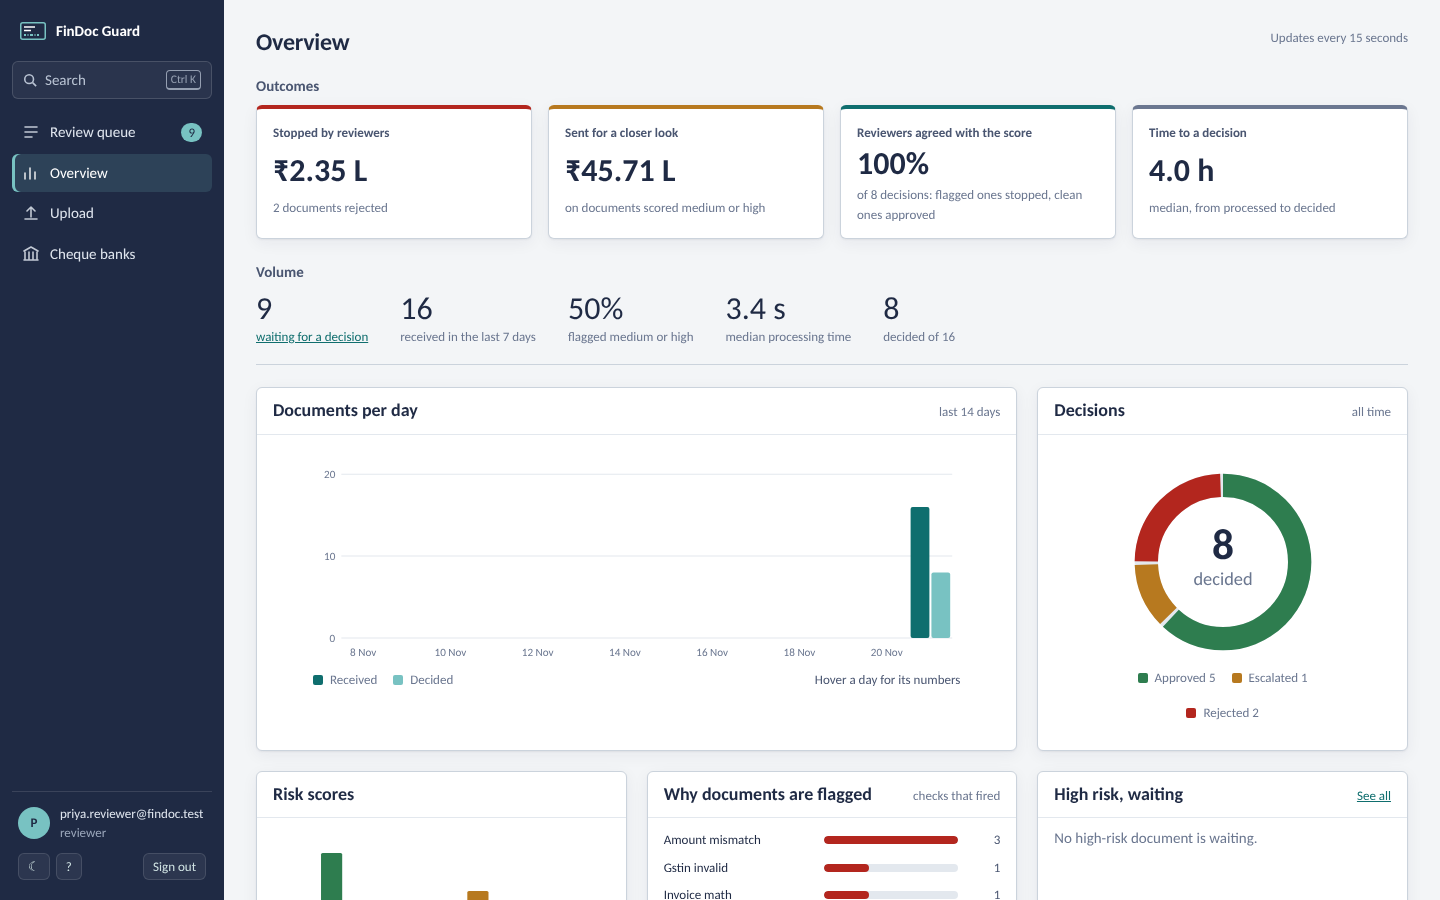
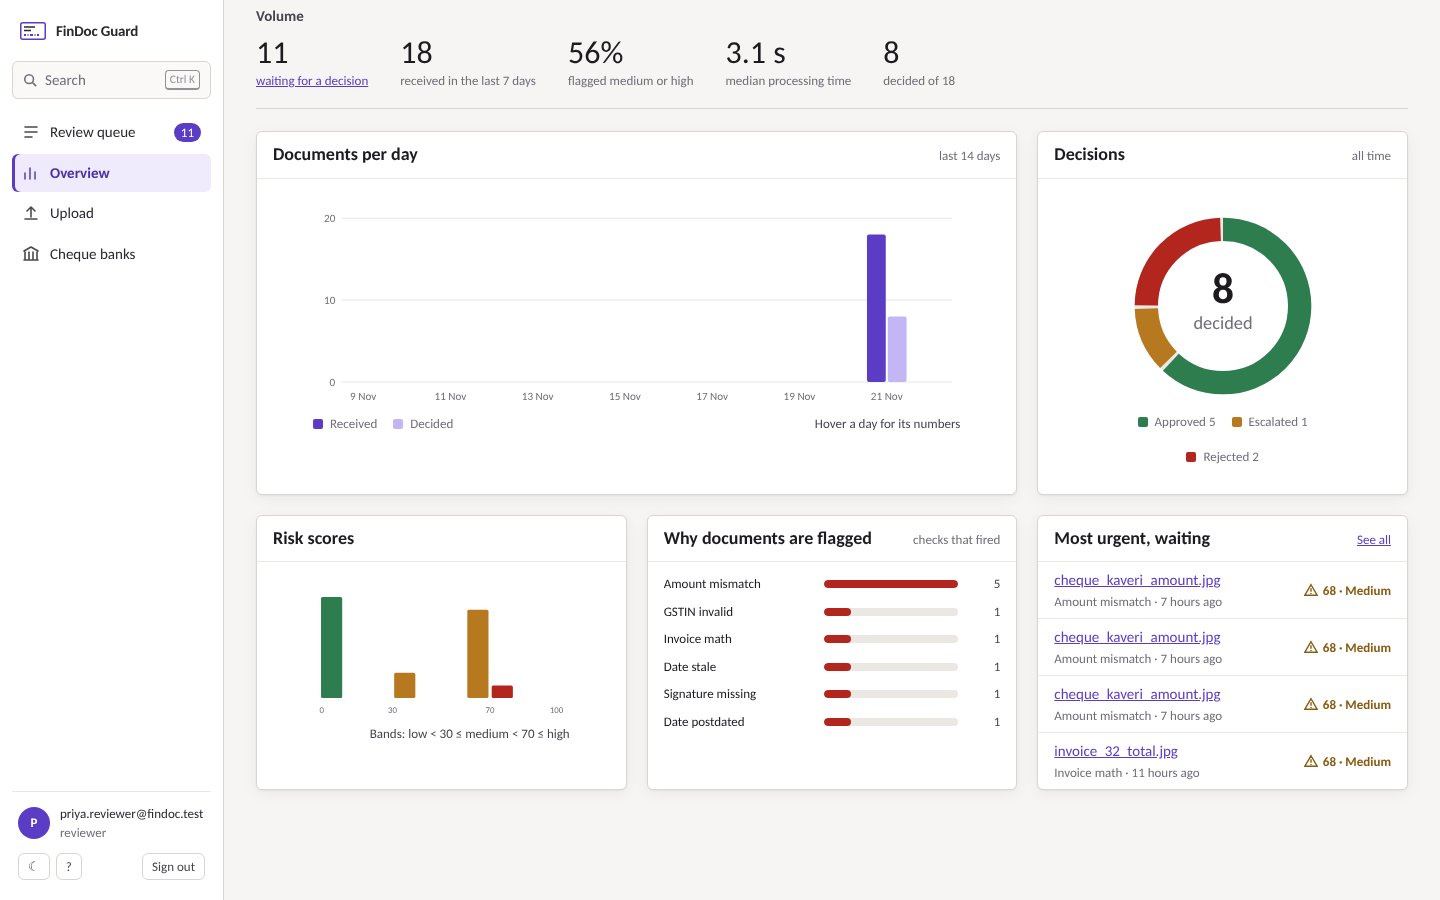
v0.9.4: new visual theme (light sidebar, violet accent)
Claude-Session: https://claude.ai/code/session_01QBnLXQ5ZhT4JEbvaneoU29

diff --git a/frontend/src/styles.css b/frontend/src/styles.css
@@ -1,18 +1,19 @@
-/* FinDoc Guard review desk. Colours come from the cheque: ink navy, cool paper, MICR teal.
+/* FinDoc Guard review desk. Neutral paper, near-black ink and one violet accent that never
+   competes with the risk colours (green, amber, red).
    Every colour is a variable, so the dark theme is one block of overrides. */
 :root {
-  --ink: #1f2a44;
-  --ink-2: #4a5671;
-  --ink-3: #6b7790;
-  --paper: #f3f5f7;
+  --ink: #1d1b20;
+  --ink-2: #48444f;
+  --ink-3: #726d7a;
+  --paper: #f6f5f3;
   --sheet: #ffffff;
-  --sheet-2: #f8fafb;
-  --hover: #f1f5f7;
-  --rule: #cbd3dc;
-  --rule-soft: #e3e8ee;
-  --teal: #0f6e6e;
-  --teal-dark: #0b5555;
-  --teal-wash: #e4f1f0;
+  --sheet-2: #faf9f8;
+  --hover: #f2f0ee;
+  --rule: #d9d5d0;
+  --rule-soft: #ebe8e4;
+  --teal: #5b3cc4;
+  --teal-dark: #4a2fa6;
+  --teal-wash: #efeafc;
   --low: #2e7d4f;
   --low-wash: #e6f3eb;
   --medium: #8a5a10;
@@ -20,13 +21,13 @@
   --medium-wash: #fbf1dd;
   --high: #b3261e;
   --high-wash: #fbe7e5;
-  --focus: #2a6fdb;
-  --rail: #1f2a44;
-  --rail-ink: #dfe5ee;
-  --rail-accent: #78c2c2;
-  --shadow: 0 1px 2px rgba(31, 42, 68, 0.06), 0 4px 16px rgba(31, 42, 68, 0.06);
+  --focus: #5b3cc4;
+  --rail: #ffffff;
+  --rail-ink: #2b2730;
+  --rail-accent: #5b3cc4;
+  --shadow: 0 1px 2px rgba(29, 27, 32, 0.05), 0 4px 16px rgba(29, 27, 32, 0.05);
   --shadow-lg: 0 12px 40px rgba(16, 24, 40, 0.22);
-  --skel: #e7ecf1;
+  --skel: #ebe8e4;
 
   --font: Seravek, "Gill Sans Nova", Ubuntu, Calibri, "DejaVu Sans", source-sans-pro, sans-serif;
   --step--1: 0.8125rem;
@@ -39,18 +40,18 @@
 }
 
 [data-theme="dark"] {
-  --ink: #e6ebf2;
-  --ink-2: #b6c0cf;
-  --ink-3: #8b96a8;
-  --paper: #11161f;
-  --sheet: #19202b;
-  --sheet-2: #1e2633;
-  --hover: #222b39;
-  --rule: #323d4e;
-  --rule-soft: #262f3d;
-  --teal: #3fa9a6;
-  --teal-dark: #5cc0bd;
-  --teal-wash: #173533;
+  --ink: #ece9f1;
+  --ink-2: #bdb7c7;
+  --ink-3: #8f889a;
+  --paper: #121015;
+  --sheet: #1b181f;
+  --sheet-2: #201d25;
+  --hover: #26222c;
+  --rule: #37323f;
+  --rule-soft: #2a2631;
+  --teal: #a891f2;
+  --teal-dark: #c0aff7;
+  --teal-wash: #2a2240;
   --low: #5cc48a;
   --low-wash: #17301f;
   --medium: #e0ad57;
@@ -58,11 +59,13 @@
   --medium-wash: #33280f;
   --high: #f07a71;
   --high-wash: #3a1d1b;
-  --focus: #7aa7ff;
-  --rail: #0c1118;
+  --focus: #a891f2;
+  --rail: #17151b;
+  --rail-ink: #ece9f1;
+  --rail-accent: #a891f2;
   --shadow: 0 1px 2px rgba(0, 0, 0, 0.3);
   --shadow-lg: 0 12px 40px rgba(0, 0, 0, 0.55);
-  --skel: #252e3c;
+  --skel: #2a2631;
   color-scheme: dark;
 }
 
@@ -103,8 +106,9 @@ button, input, select, textarea { font: inherit; color: inherit; }
   position: sticky;
   top: 0;
   height: 100vh;
+  border-right: 1px solid var(--rule);
 }
-.brand { display: flex; align-items: center; gap: 10px; padding: 0 8px 16px; color: #fff; font-weight: 600; }
+.brand { display: flex; align-items: center; gap: 10px; padding: 0 8px 16px; color: var(--rail-ink); font-weight: 700; letter-spacing: -0.01em; }
 .brand svg { flex: none; }
 .rail .search {
   display: flex;
@@ -113,14 +117,14 @@ button, input, select, textarea { font: inherit; color: inherit; }
   margin: 0 0 12px;
   padding: 7px 10px;
   border-radius: var(--radius);
-  border: 1px solid rgba(255, 255, 255, 0.14);
-  background: rgba(255, 255, 255, 0.05);
-  color: #b9c3d3;
+  border: 1px solid var(--rule);
+  background: var(--sheet-2);
+  color: var(--ink-3);
   cursor: pointer;
   text-align: left;
 }
-.rail .search:hover { background: rgba(255, 255, 255, 0.09); }
-.rail .search kbd { margin-left: auto; color: #b9c3d3; }
+.rail .search:hover { background: var(--hover); }
+.rail .search kbd { margin-left: auto; color: var(--ink-3); }
 .rail a {
   color: inherit;
   text-decoration: none;
@@ -130,34 +134,34 @@ button, input, select, textarea { font: inherit; color: inherit; }
   align-items: center;
   gap: 10px;
 }
-.rail a:hover { background: rgba(255, 255, 255, 0.07); }
-.rail a.active { background: rgba(120, 194, 194, 0.16); color: #fff; box-shadow: inset 3px 0 0 var(--rail-accent); }
+.rail a:hover { background: var(--hover); }
+.rail a.active { background: var(--teal-wash); color: var(--teal-dark); font-weight: 600; box-shadow: inset 3px 0 0 var(--rail-accent); }
 .rail a svg { opacity: 0.85; flex: none; }
-.rail .count { margin-left: auto; font-size: var(--step--1); background: var(--rail-accent); color: #1f2a44; border-radius: 10px; padding: 0 7px; }
+.rail .count { margin-left: auto; font-size: var(--step--1); background: var(--rail-accent); color: var(--sheet); border-radius: 10px; padding: 0 7px; }
 .rail .who {
   margin-top: auto;
   padding: 12px 6px 0;
-  border-top: 1px solid rgba(255, 255, 255, 0.12);
+  border-top: 1px solid var(--rule-soft);
   font-size: var(--step--1);
   display: grid;
   grid-template-columns: 32px 1fr;
   gap: 4px 10px;
   align-items: center;
 }
-.avatar { width: 32px; height: 32px; border-radius: 50%; background: var(--rail-accent); color: #1f2a44; display: grid; place-items: center; font-weight: 600; }
+.avatar { width: 32px; height: 32px; border-radius: 50%; background: var(--rail-accent); color: var(--sheet); display: grid; place-items: center; font-weight: 600; }
 .who .email { overflow: hidden; text-overflow: ellipsis; white-space: nowrap; }
-.who .role { color: #9aa6ba; }
+.who .role { color: var(--ink-3); }
 .who-actions { grid-column: 1 / -1; display: flex; gap: 6px; margin-top: 6px; }
 .who-actions button {
-  background: rgba(255, 255, 255, 0.06);
-  border: 1px solid rgba(255, 255, 255, 0.12);
-  color: #cfe2e2;
+  background: var(--sheet);
+  border: 1px solid var(--rule);
+  color: var(--ink-2);
   border-radius: var(--radius);
   padding: 3px 9px;
   cursor: pointer;
 }
 .who-actions button:last-child { margin-left: auto; }
-.who-actions button:hover { background: rgba(255, 255, 255, 0.12); }
+.who-actions button:hover { background: var(--hover); }
 main { padding: 28px 32px 110px; min-width: 0; outline: none; }
 .page-head { display: flex; align-items: flex-start; justify-content: space-between; gap: 16px; margin-bottom: 20px; flex-wrap: wrap; }
 .head-side { display: grid; justify-items: end; gap: 8px; }
@@ -309,8 +313,8 @@ table.grid { width: 100%; border-collapse: collapse; }
 .chart .grid { stroke: var(--rule-soft); }
 .chart .tick { fill: var(--ink-3); font-size: 11px; }
 .chart .s1 { fill: var(--teal); }
-.chart .s2 { fill: var(--rail-accent); }
-[data-theme="dark"] .chart .s2 { fill: #2f6f7a; }
+.chart .s2 { fill: #c4b5f4; }
+[data-theme="dark"] .chart .s2 { fill: #5b4a8a; }
 .chart .hit { fill: transparent; }
 .chart .hoverband { fill: var(--hover); }
 .chart .risk-low { fill: var(--low); }
@@ -320,7 +324,7 @@ table.grid { width: 100%; border-collapse: collapse; }
 .chart .readout { margin-left: auto; color: var(--ink-2); }
 .sw { display: inline-block; width: 10px; height: 10px; border-radius: 2px; margin-right: 4px; vertical-align: -1px; }
 .sw.s1 { background: var(--teal); }
-.sw.s2 { background: var(--rail-accent); }
+.sw.s2 { background: #c4b5f4; }
 .hbars { list-style: none; margin: 0; padding: 0; display: grid; gap: 8px; }
 .hbars li { display: grid; grid-template-columns: 150px 1fr 32px; gap: 10px; align-items: center; font-size: var(--step--1); }
 .hbars .bar { height: 8px; background: var(--rule-soft); border-radius: 4px; overflow: hidden; }
@@ -451,7 +455,7 @@ table.grid { width: 100%; border-collapse: collapse; }
 .history li { padding: 6px 16px; border-bottom: 1px solid var(--rule-soft); }
 .timeline .tl-bar { display: flex; height: 10px; border-radius: 5px; overflow: hidden; gap: 2px; margin-bottom: 8px; }
 .timeline .tl-bar span { background: var(--teal); min-width: 3px; opacity: 0.85; }
-.timeline .tl-bar span:nth-child(2n) { background: var(--rail-accent); }
+.timeline .tl-bar span:nth-child(2n) { background: #c4b5f4; }
 .timeline .tl-bar span.bad { background: var(--high); }
 .stages { display: flex; flex-wrap: wrap; gap: 4px 14px; font-size: var(--step--1); color: var(--ink-3); }
 .items { width: 100%; border-collapse: collapse; font-size: var(--step--1); }
@@ -535,12 +539,12 @@ svg.tpl { display: block; width: 100%; height: auto; border-radius: 4px; backgro
 .toast span { flex: 1; }
 .toast.error { border-left-color: var(--high); }
 .toast.info { border-left-color: var(--medium-line); }
-.toast .textlink { color: var(--rail-accent); }
+.toast .textlink { color: #c4b5f4; }
 .toast .x { color: inherit; opacity: 0.7; }
 
 /* ---------------------------------------------------------------- login */
-.login { min-height: 100%; display: grid; place-items: center; padding: 24px; background: var(--rail); }
-.login form { background: var(--sheet); border-radius: 10px; padding: 32px; width: min(380px, 100%); display: grid; gap: 14px; box-shadow: var(--shadow-lg); }
+.login { min-height: 100%; display: grid; place-items: center; padding: 24px; background: radial-gradient(circle at 20% 10%, var(--teal-wash), var(--paper) 60%); }
+.login form { background: var(--sheet); border: 1px solid var(--rule); border-radius: 10px; padding: 32px; width: min(380px, 100%); display: grid; gap: 14px; box-shadow: var(--shadow-lg); }
 .login .micr { height: 10px; background: repeating-linear-gradient(90deg, var(--ink) 0 3px, transparent 3px 5px, var(--ink) 5px 6px, transparent 6px 11px); opacity: 0.18; margin: -4px 0 6px; }
 
 /* ---------------------------------------------------------------- admin */
@@ -576,8 +580,8 @@ code.key { display: block; word-break: break-all; background: var(--paper); padd
 
 /* ---------------------------------------------------------------- v0.9.2: results first */
 /* Breakdown segments: one colour per fired check, shared by the bar and the check rows. */
-:root { --seg1: #b3261e; --seg2: #c9772a; --seg3: #7a4f9a; --seg4: #4a5671; }
-[data-theme="dark"] { --seg1: #f07a71; --seg2: #e3a35a; --seg3: #b591d6; --seg4: #8b96a8; }
+:root { --seg1: #b3261e; --seg2: #c9772a; --seg3: #2f6f8f; --seg4: #6d6773; }
+[data-theme="dark"] { --seg1: #f07a71; --seg2: #e3a35a; --seg3: #7fb3cf; --seg4: #9a93a3; }
 .seg1 { --c: var(--seg1); } .seg2 { --c: var(--seg2); } .seg3 { --c: var(--seg3); } .seg4 { --c: var(--seg4); }
 
 .verdict { padding: 16px; display: grid; gap: 14px; border-left: 4px solid var(--rule); }
@@ -664,7 +668,7 @@ code.key { display: block; word-break: break-all; background: var(--paper); padd
 .compare img { position: absolute; inset: 0; width: 100%; height: 100%; object-fit: contain; }
 .compare .handle { position: absolute; top: 0; bottom: 0; width: 2px; background: #fff; box-shadow: 0 0 0 1px rgba(0,0,0,.25); transform: translateX(-1px); pointer-events: none; }
 .compare .handle span { position: absolute; top: 50%; left: 50%; transform: translate(-50%, -50%); background: var(--ink); color: #fff; border-radius: 999px; padding: 4px 8px; font-size: 12px; white-space: nowrap; box-shadow: var(--shadow-lg); }
-.compare .tag { position: absolute; top: 10px; background: rgba(20, 28, 40, .72); color: #fff; font-size: var(--step--1); padding: 2px 8px; border-radius: 999px; pointer-events: none; }
+.compare .tag { position: absolute; top: 10px; background: rgba(29, 27, 32, .72); color: #fff; font-size: var(--step--1); padding: 2px 8px; border-radius: 999px; pointer-events: none; }
 .compare .tag.l { left: 10px; } .compare .tag.r { right: 10px; }
 .compare input[type="range"] { position: absolute; inset: 0; width: 100%; height: 100%; opacity: 0; cursor: ew-resize; margin: 0; }
 .compare:has(input:focus-visible) { outline: 2px solid var(--focus); outline-offset: 2px; }

diff --git a/frontend/src/components/bits.tsx b/frontend/src/components/bits.tsx
@@ -81,9 +81,9 @@ export function useApiImage(docId: string, variant: string | null) {
 export function Logo() {
   return (
     <svg width="26" height="18" viewBox="0 0 26 18" aria-hidden="true">
-      <rect x="0.75" y="0.75" width="24.5" height="16.5" rx="2" fill="none" stroke="#78C2C2" strokeWidth="1.5" />
-      <path d="M4 5h11 M4 8.5h7" stroke="#fff" strokeWidth="1.5" />
-      <path d="M4 13h2 M7.5 13h1 M10 13h3 M14.5 13h1 M17 13h2" stroke="#78C2C2" strokeWidth="2" />
+      <rect x="0.75" y="0.75" width="24.5" height="16.5" rx="2" fill="none" stroke="var(--rail-accent)" strokeWidth="1.5" />
+      <path d="M4 5h11 M4 8.5h7" stroke="var(--rail-ink)" strokeWidth="1.5" />
+      <path d="M4 13h2 M7.5 13h1 M10 13h3 M14.5 13h1 M17 13h2" stroke="var(--rail-accent)" strokeWidth="2" />
     </svg>
   );
 }

diff --git a/findoc/__init__.py b/findoc/__init__.py
@@ -1,5 +1,5 @@
 """FinDoc Guard: 3D-aware cheque and invoice processing with explainable fraud detection."""
 
-__version__ = "0.9.3"
+__version__ = "0.9.4"
 
 __all__ = ["__version__"]

diff --git a/docs/learn/README.md b/docs/learn/README.md
@@ -14,7 +14,7 @@ line yourself.
 | [Phase 5 - 3D reconstruction](phase-5-3d-reconstruction.md) | Developable surfaces, incremental SfM, bundle adjustment, focal search, planarity test, surface fit, ARAP flattening, correspondence map, camera calibration, evaluation | 0.6.0 |
 | [Phase 6 - Fraud engine](phase-6-fraud-engine.md) | JPEG forensics, learned tamper model, heatmap mapping through the correspondence map, duplicate index, signature comparison, explainable risk score | 0.7.0 |
 | [Phase 7 - Invoices](phase-7-invoices.md) | Synthetic GST invoices, GSTIN check digit, rule-based and LayoutLMv3 extraction, misread-aware invoice checks, document-type classifier, Excel export | 0.8.0 |
-| [Phase 8 - Product](phase-8-product.md) | FastAPI service, JWT and API keys, roles, upload safety, PostgreSQL job queue (SKIP LOCKED), retries, redaction, React review UI (results-first verdict, live upload cards, outcomes), Docker Compose, CI on PostgreSQL | 0.9.0 to 0.9.3 |
+| [Phase 8 - Product](phase-8-product.md) | FastAPI service, JWT and API keys, roles, upload safety, PostgreSQL job queue (SKIP LOCKED), retries, redaction, React review UI (results-first verdict, live upload cards, outcomes), Docker Compose, CI on PostgreSQL | 0.9.0 to 0.9.4 |
 | Phase 9 - Evaluation | Metrics, ablations, results | coming next |
 
 > **Phase numbers changed in v0.5.0.** Learned page detection was inserted as Phase 4, so 3D

diff --git a/CHANGELOG.md b/CHANGELOG.md
@@ -3,6 +3,13 @@
 All notable changes are listed here. The project follows [Semantic Versioning](https://semver.org/);
 each build phase is released as a minor version.
 
+## [0.9.4] - New visual theme
+
+### Changed
+- The review app drops the dark-blue look: a light sidebar, neutral warm paper, near-black text
+  and one violet accent for actions and selection. Violet was chosen because it never competes
+  with the risk colours (green, amber, red). Dark mode follows the same palette.
+
 ## [0.9.3] - No empty space on the main screens
 
 ### Changed
